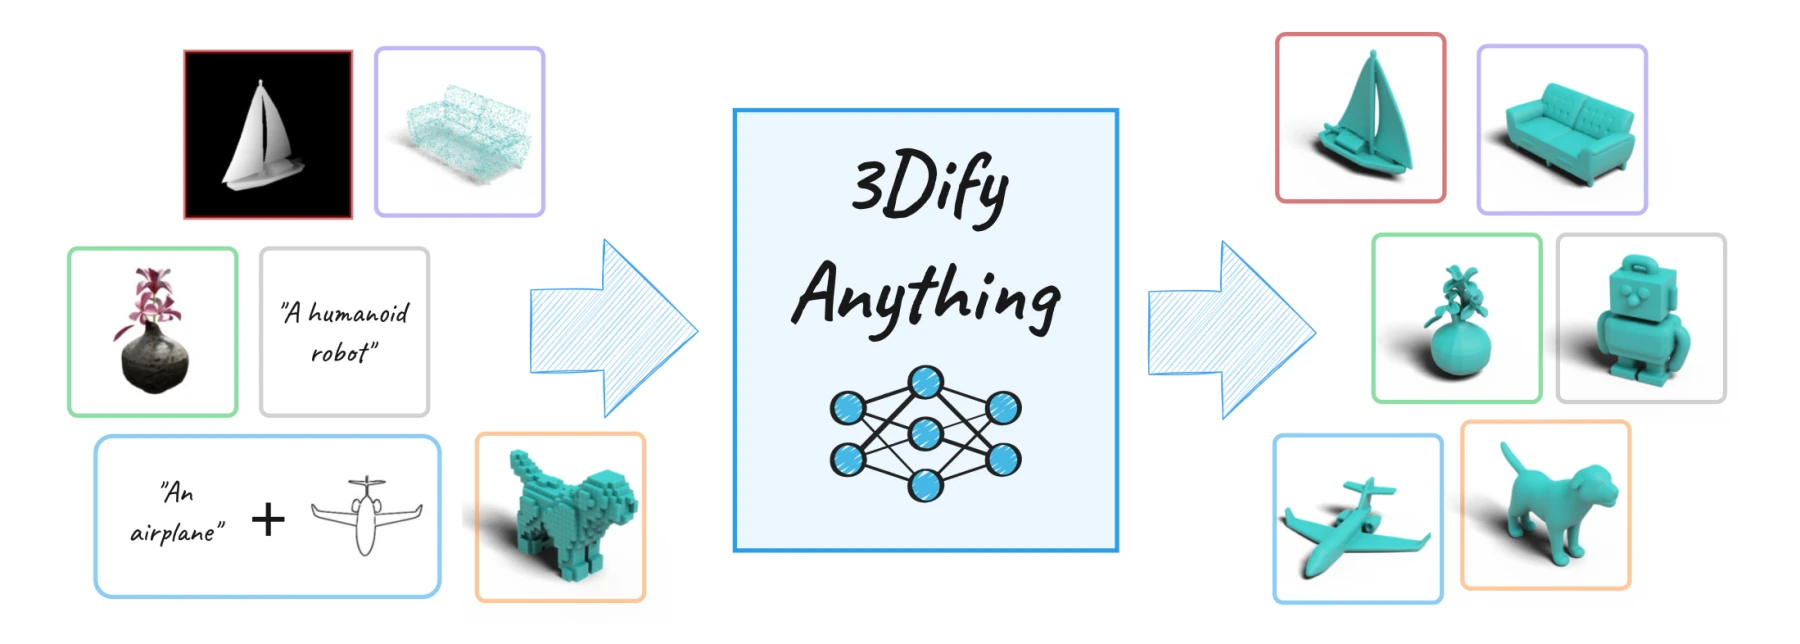
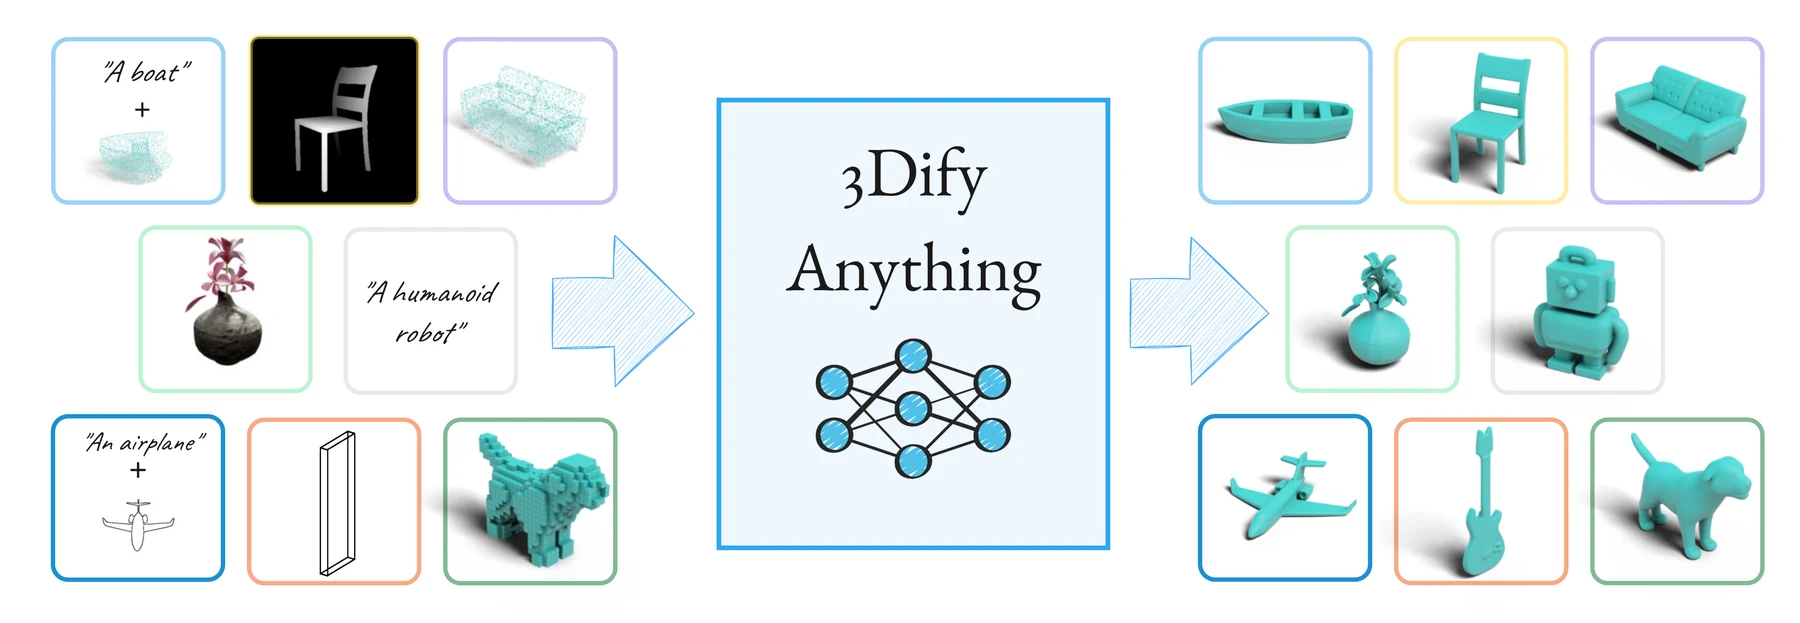
Use latest 3Dify-Anything teaser

Changed region(s): [[0.0, 0.0305, 0.9956, 0.9454], [0.4667, 0.2135, 0.56, 0.366]]

diff --git a/index.html b/index.html
@@ -113,7 +113,7 @@
                 <img
                   src="assets/showcase/3dify-anything.webp"
                   width="1800"
-                  height="644"
+                  height="623"
                   alt="3Dify-Anything multimodal 3D generation overview"
                   loading="lazy"
                   decoding="async"
@@ -332,7 +332,7 @@
                   <h3>3Dify-Anything: A Unified Model for Multimodal 3D Generation via Context Pre-Training</h3>
                   <p>A. Sanghi, <strong class="publication-author">M. Safaee</strong>, H. Kumar, V. Antonino, K. Madan, and H. Shayani.</p>
                   <figure class="publication-teaser">
-                    <img src="assets/showcase/3dify-anything.webp" width="1800" height="644" alt="3Dify-Anything: multimodal inputs turned into 3D shapes by one model" loading="lazy" decoding="async" />
+                    <img src="assets/showcase/3dify-anything.webp" width="1800" height="623" alt="3Dify-Anything: multimodal inputs turned into 3D shapes by one model" loading="lazy" decoding="async" />
                   </figure>
                 </div>
               </article>
